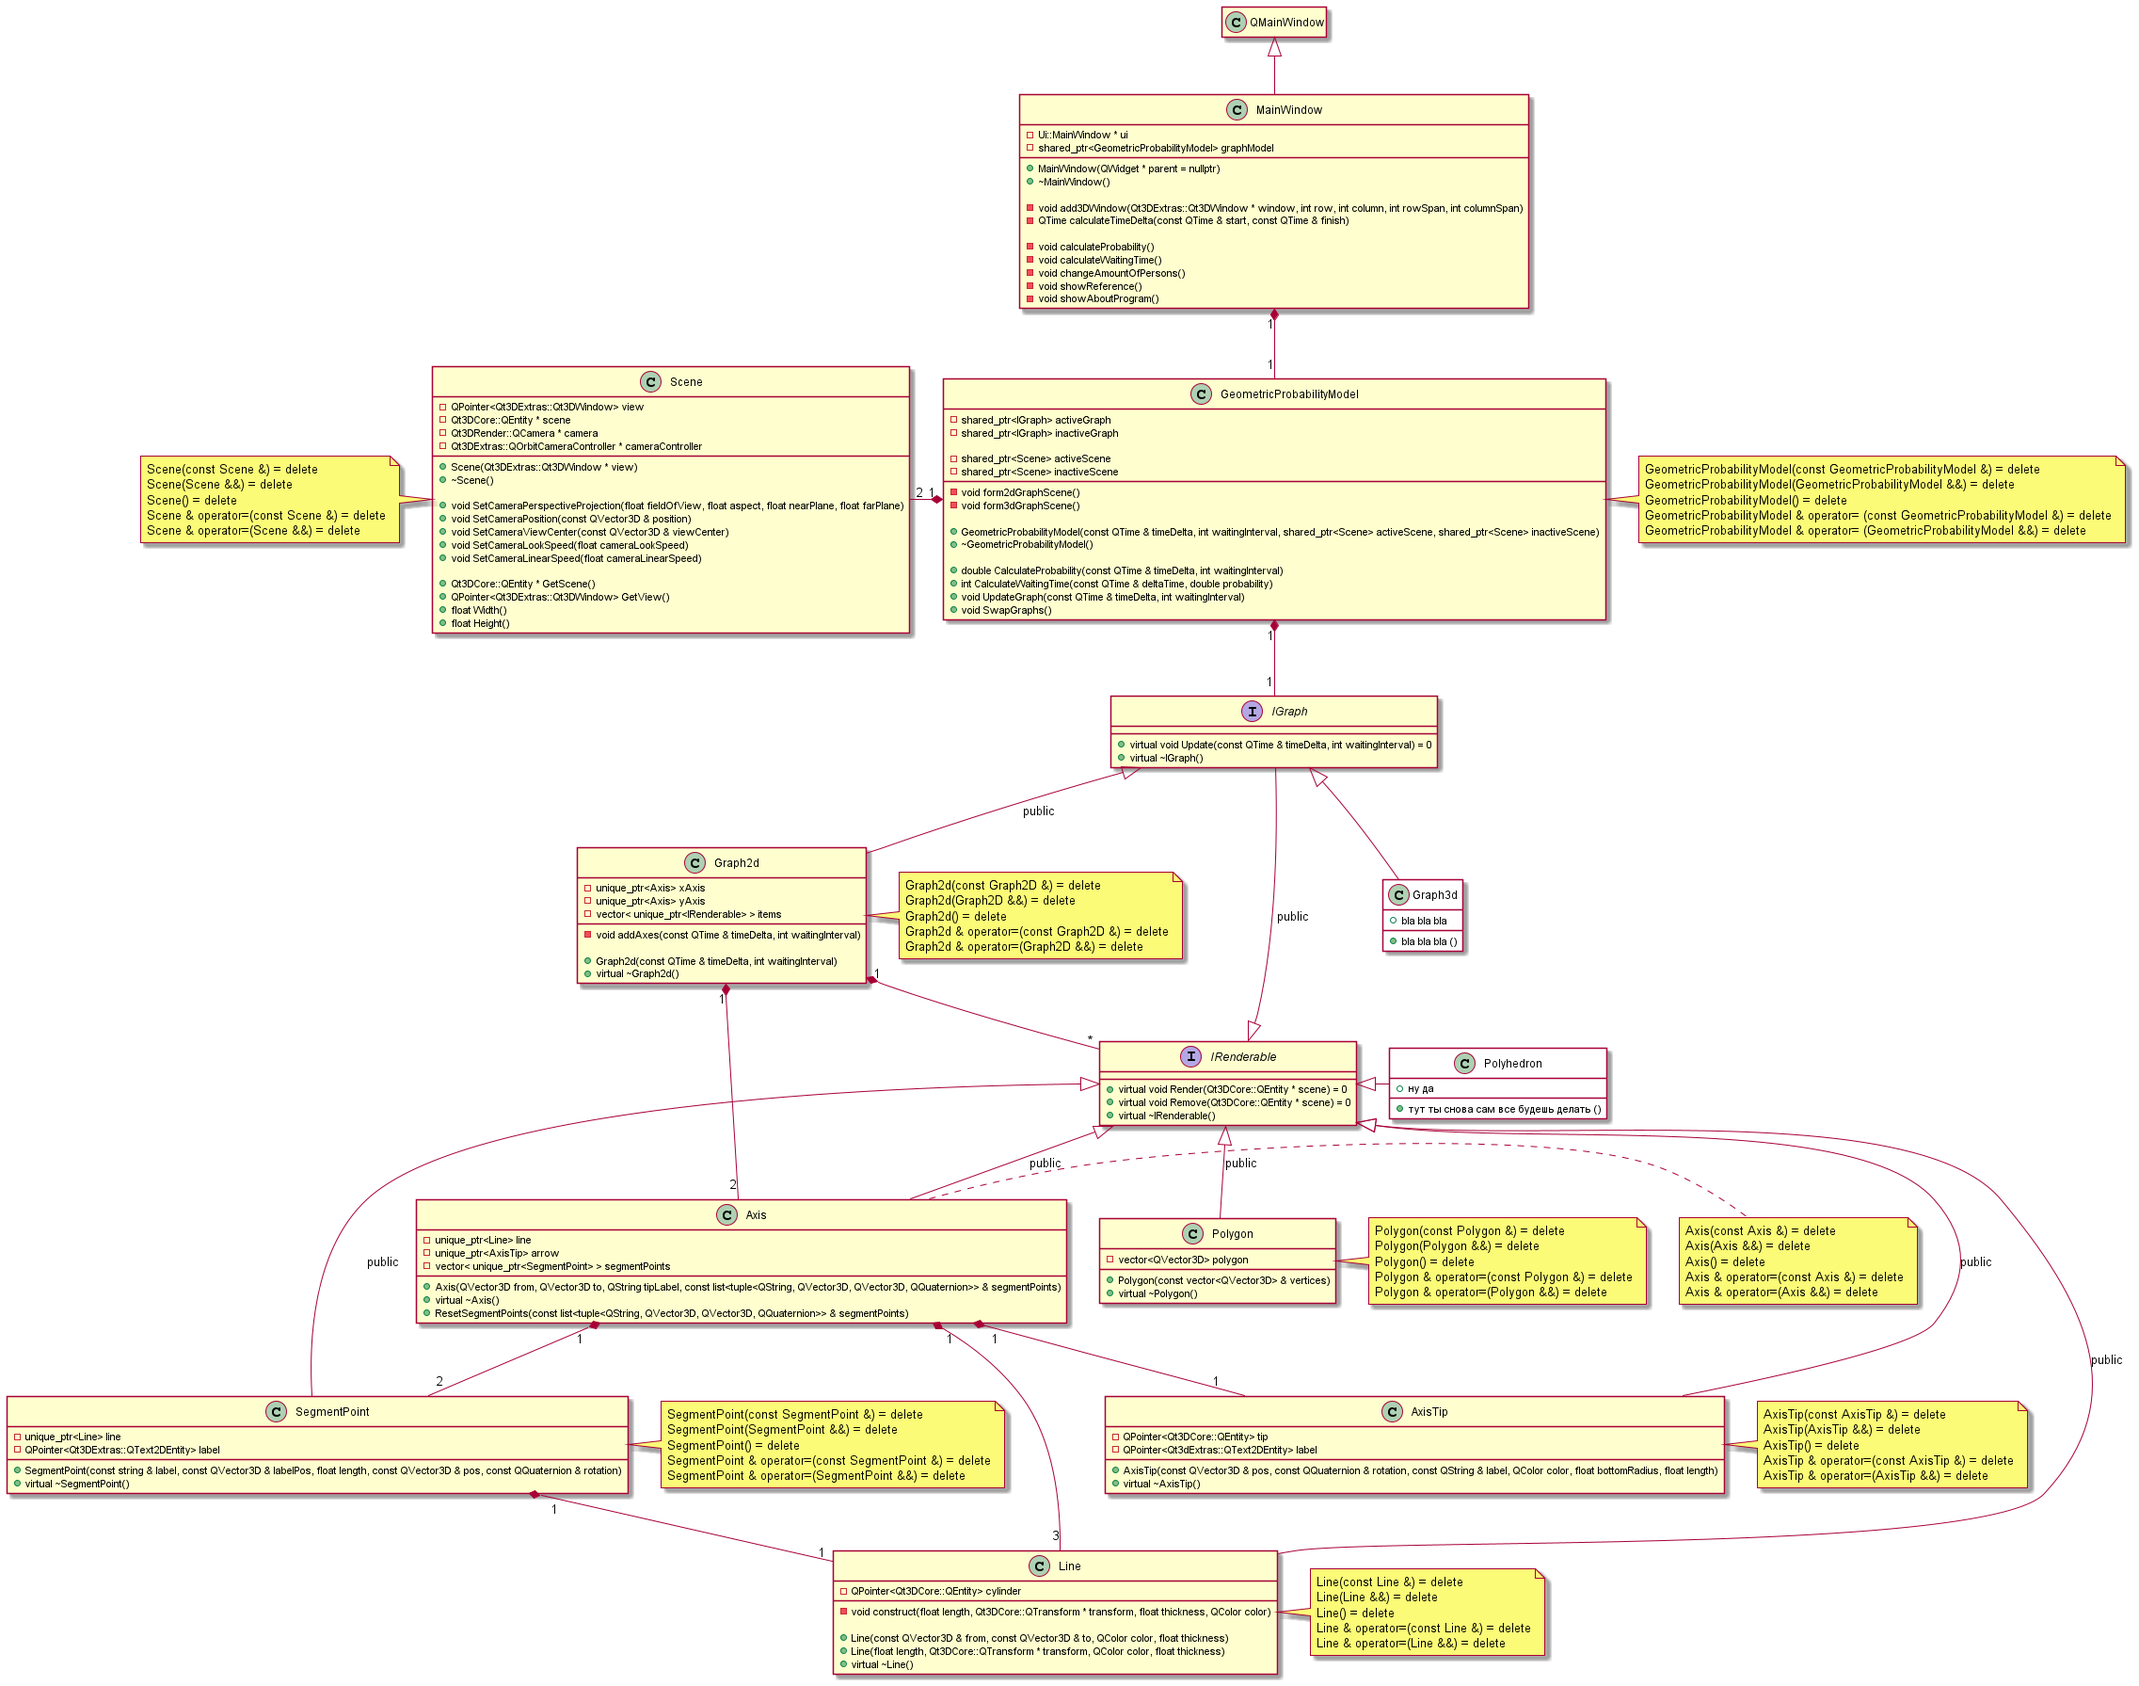
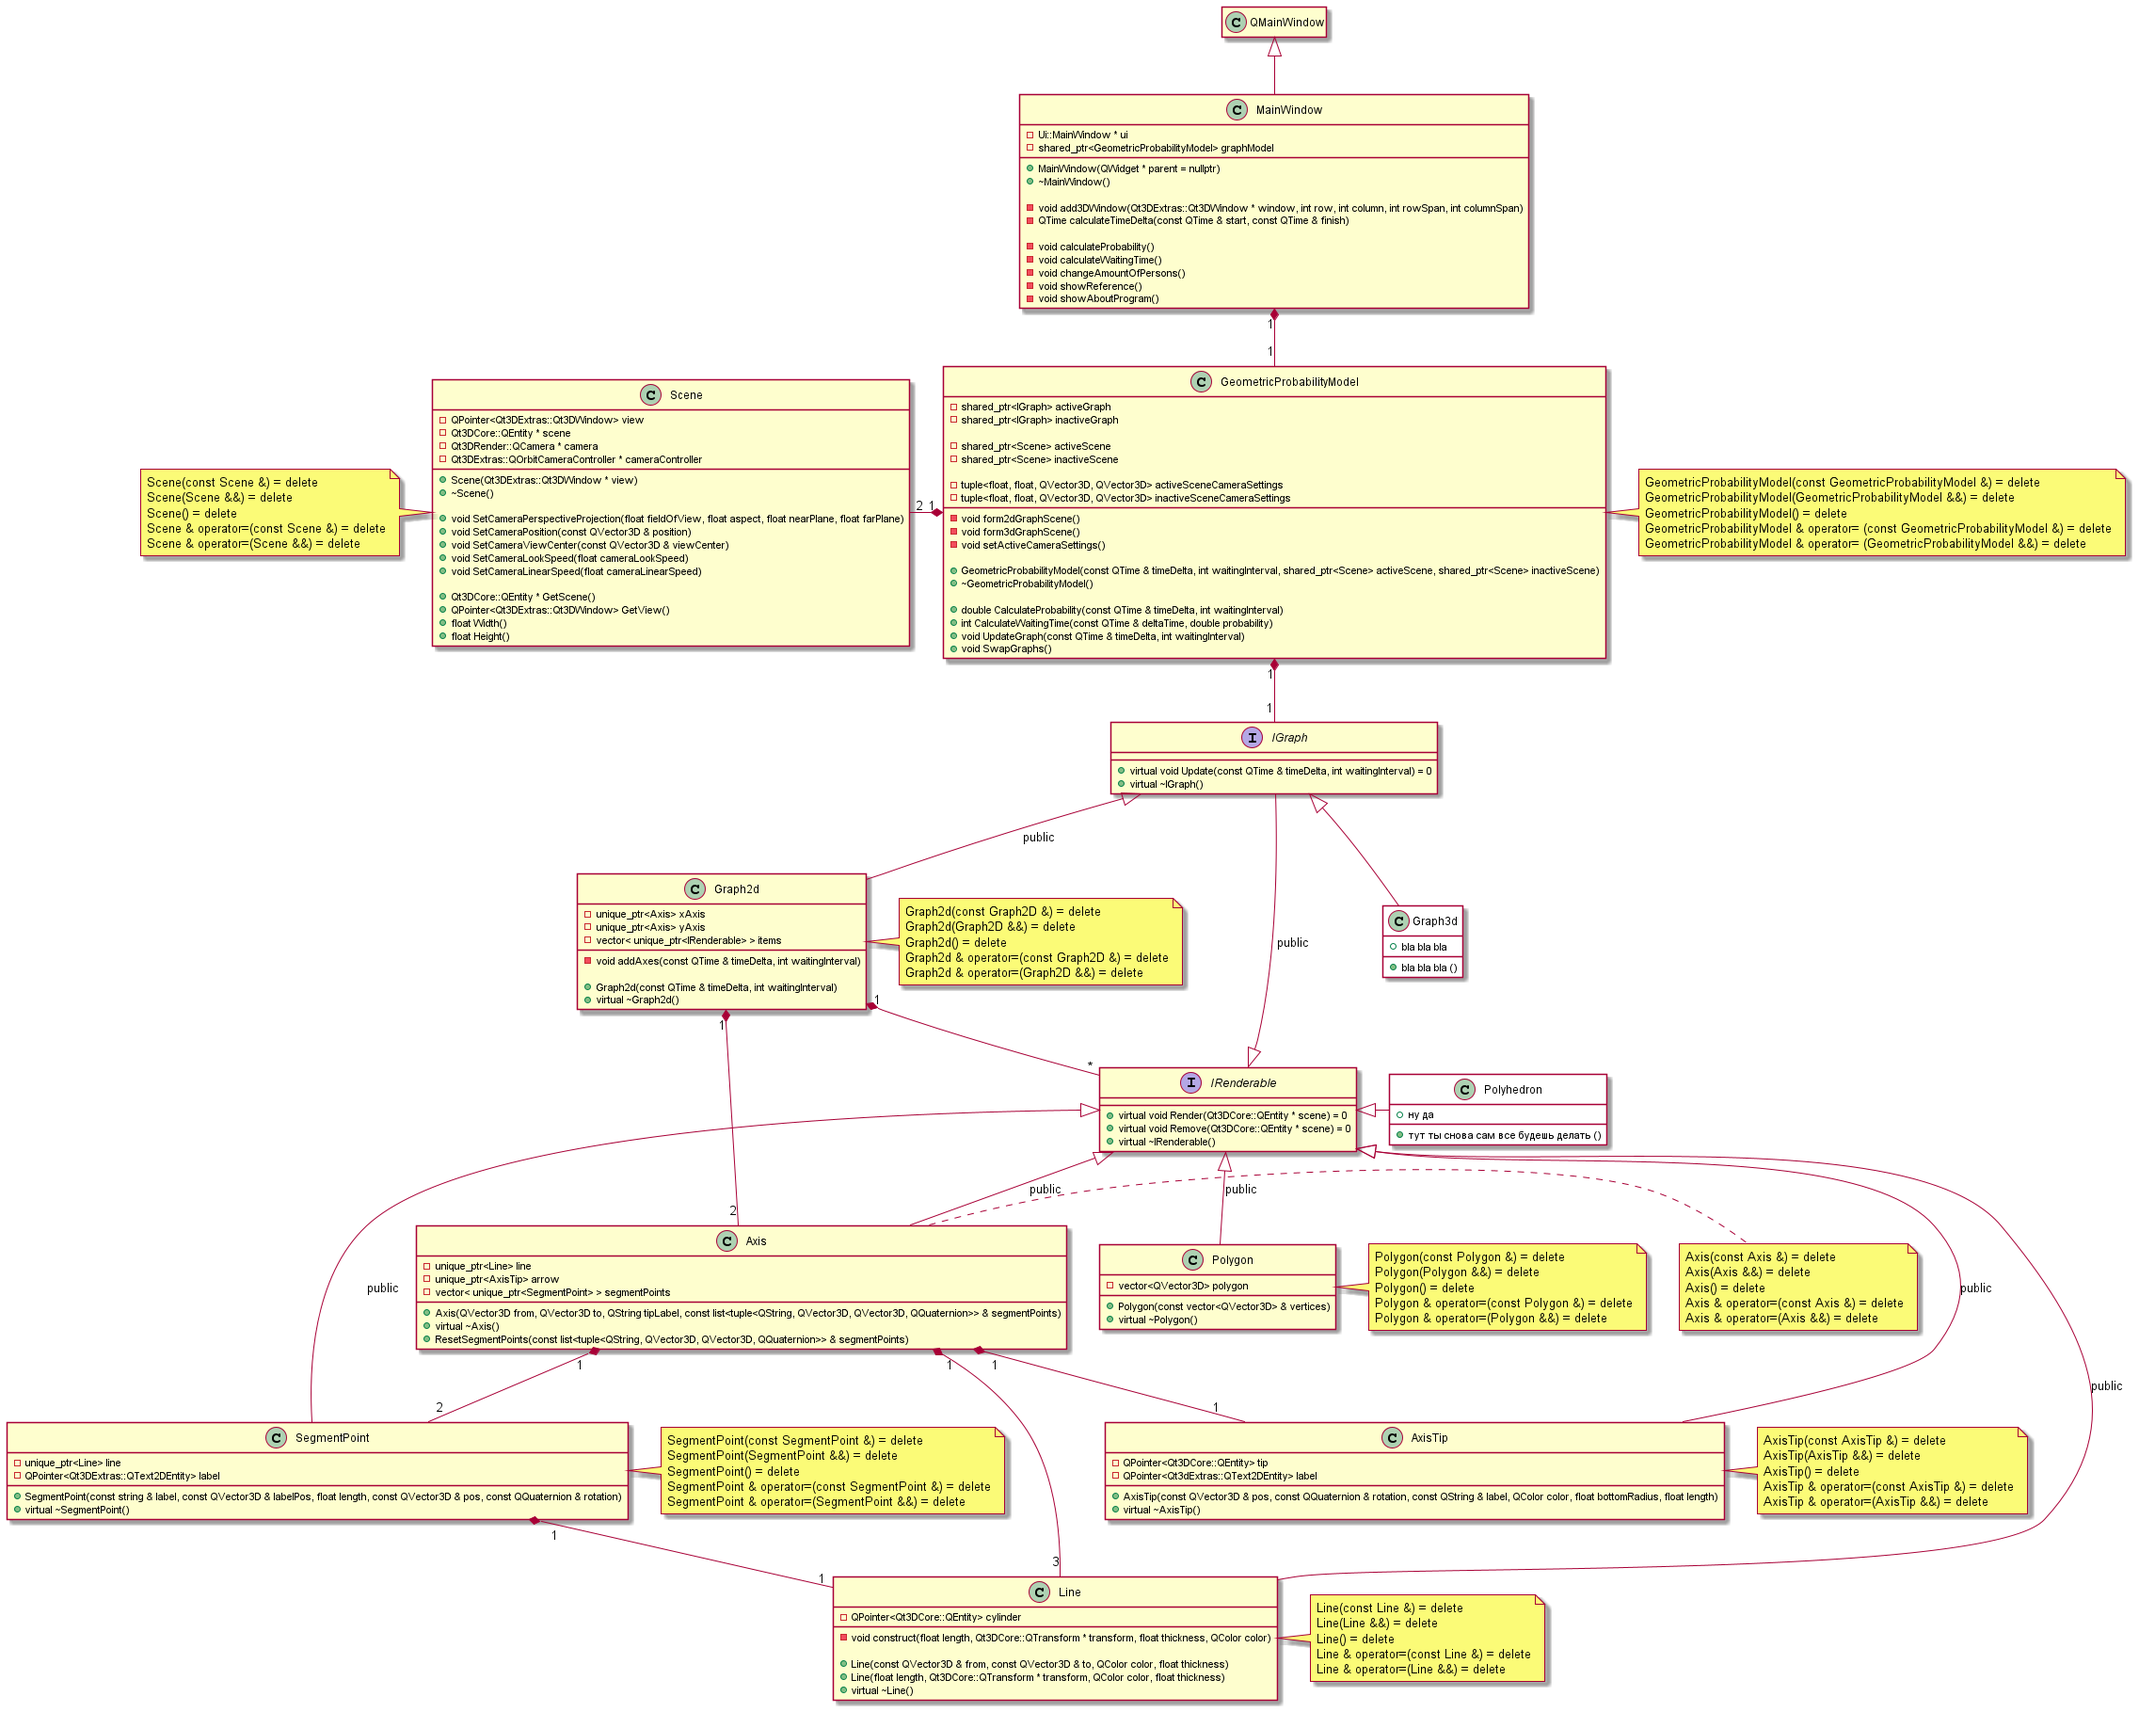
поправил настройку камеры - теперь при изменении режима камера получает корректные настройки

diff --git a/src/GeometricProbabilityModel.cpp b/src/GeometricProbabilityModel.cpp
@@ -16,10 +16,7 @@ void GeometricProbabilityModel::form2dGraphScene()
 			0.1f,
 			1000.0f
 	);
-	activeScene->SetCameraLinearSpeed(100.0f); // скорость перемещения камеры
-	activeScene->SetCameraLookSpeed(0.0f); // скорость поворота камеры
-	activeScene->SetCameraPosition({30, 30, 75});
-	activeScene->SetCameraViewCenter({30, 30, 0});
+	activeSceneCameraSettings = std::make_tuple(100.0f, 0.0f, QVector3D{30, 30, 75}, QVector3D{30, 30, 0});
 }
 
 /// настройка сцены для 3д графика
@@ -28,16 +25,22 @@ void GeometricProbabilityModel::form3dGraphScene()
 	/*
 	 * todo тут сам подгони параметры
 	 */
-	activeScene->SetCameraPerspectiveProjection(
+	inactiveScene->SetCameraPerspectiveProjection(
 			90,
-			activeScene->Width() / activeScene->Height(),
+			inactiveScene->Width() / inactiveScene->Height(),
 			0.1f,
 			100.0f
 	);
-	activeScene->SetCameraLinearSpeed(100.0f);
-	activeScene->SetCameraLookSpeed(100.0f);
-	activeScene->SetCameraPosition({0, 0, 20});
-	activeScene->SetCameraViewCenter({0, 0, 0});
+	inactiveSceneCameraSettings = std::make_tuple(100.0f, 100.0f, QVector3D{0, 0, 20}, QVector3D{0, 0, 0});
+}
+
+/// установка параметров активной камеры
+void GeometricProbabilityModel::setActiveCameraSettings()
+{
+	activeScene->SetCameraLinearSpeed(std::get<0>(activeSceneCameraSettings));
+	activeScene->SetCameraLookSpeed(std::get<1>(activeSceneCameraSettings));
+	activeScene->SetCameraPosition(std::get<2>(activeSceneCameraSettings));
+	activeScene->SetCameraViewCenter(std::get<3>(activeSceneCameraSettings));
 }
 
 GeometricProbabilityModel::GeometricProbabilityModel(
@@ -55,6 +58,8 @@ GeometricProbabilityModel::GeometricProbabilityModel(
 	
 //	inactiveGraph = std::make_shared<Graph3d>() // todo тут тоже не бахнуть формирование графика и сцены
 //	form3dGraphScene();
+
+	setActiveCameraSettings(); // устанавливаем настройки камеры, соответствующие активной сцене
 }
 
 /**
@@ -107,5 +112,7 @@ void GeometricProbabilityModel::SwapGraphs()
 {
 	std::swap(activeGraph, inactiveGraph);
 	std::swap(activeScene, inactiveScene);
+	std::swap(activeSceneCameraSettings, inactiveSceneCameraSettings);
 	activeScene->GetView()->setRootEntity(activeScene->GetScene());
+	setActiveCameraSettings();
 }

diff --git a/src/GeometricProbabilityModel.h b/src/GeometricProbabilityModel.h
@@ -12,10 +12,15 @@ class GeometricProbabilityModel final
 	std::shared_ptr<IGraph> activeGraph; ///< активный график, находящийся на активной сцене
 	std::shared_ptr<IGraph> inactiveGraph; ///< неактивный график, находится на неактивной сцене
 	
+	std::tuple<float, float, QVector3D, QVector3D> activeSceneCameraSettings;
+	std::tuple<float, float, QVector3D, QVector3D> inactiveSceneCameraSettings;
+	
 	/// настройка сцены для 2д графика
 	void form2dGraphScene();
 	/// настройка сцены для 3д графика
 	void form3dGraphScene(); // todo подбери параметры
+	/// установка параметров активной камеры
+	void setActiveCameraSettings();
 
 public:
 	GeometricProbabilityModel(const GeometricProbabilityModel &) = delete;
